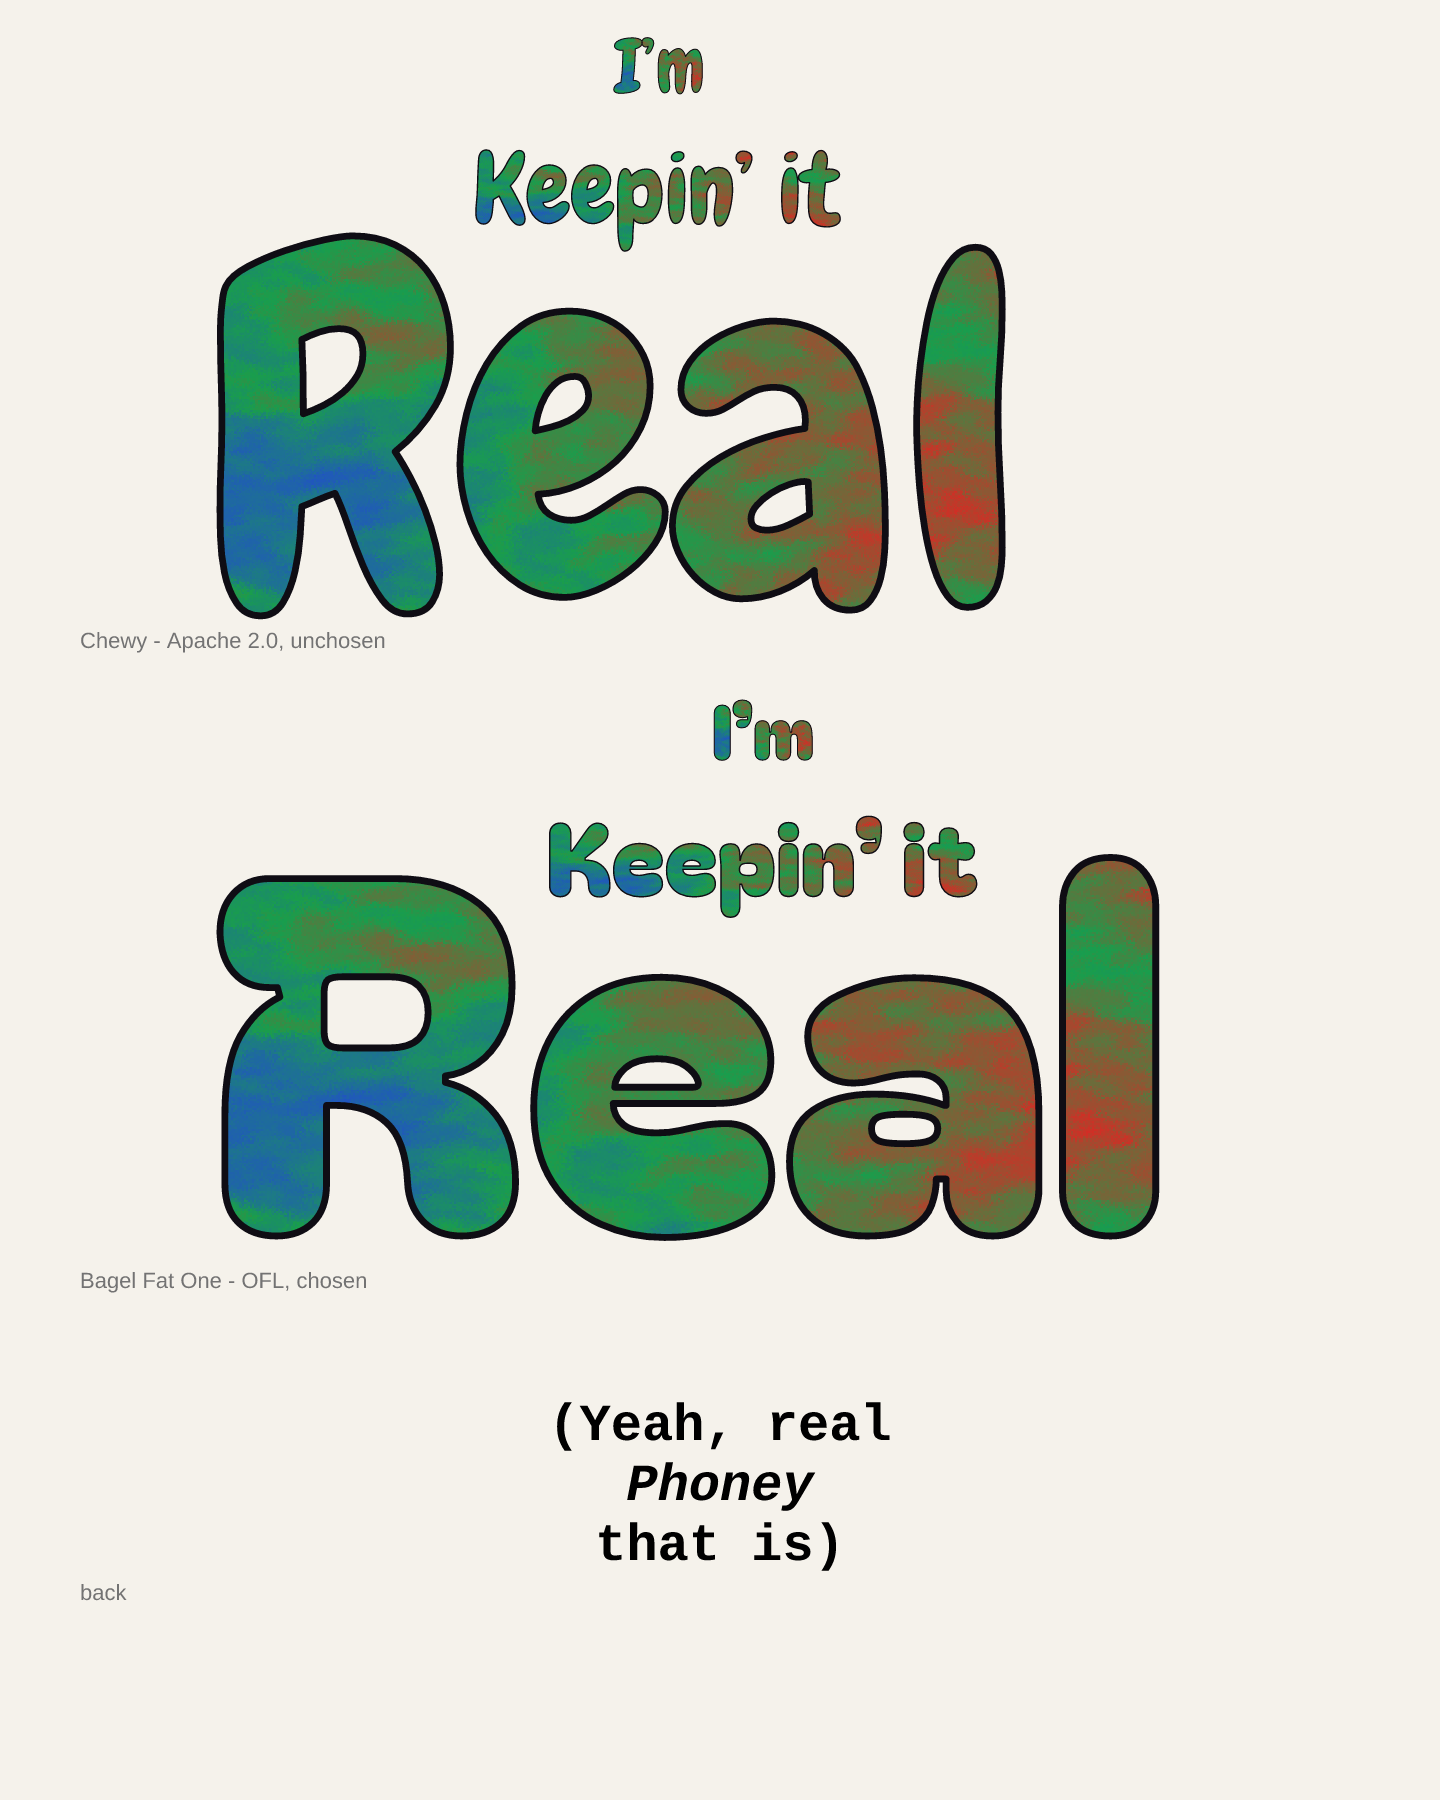
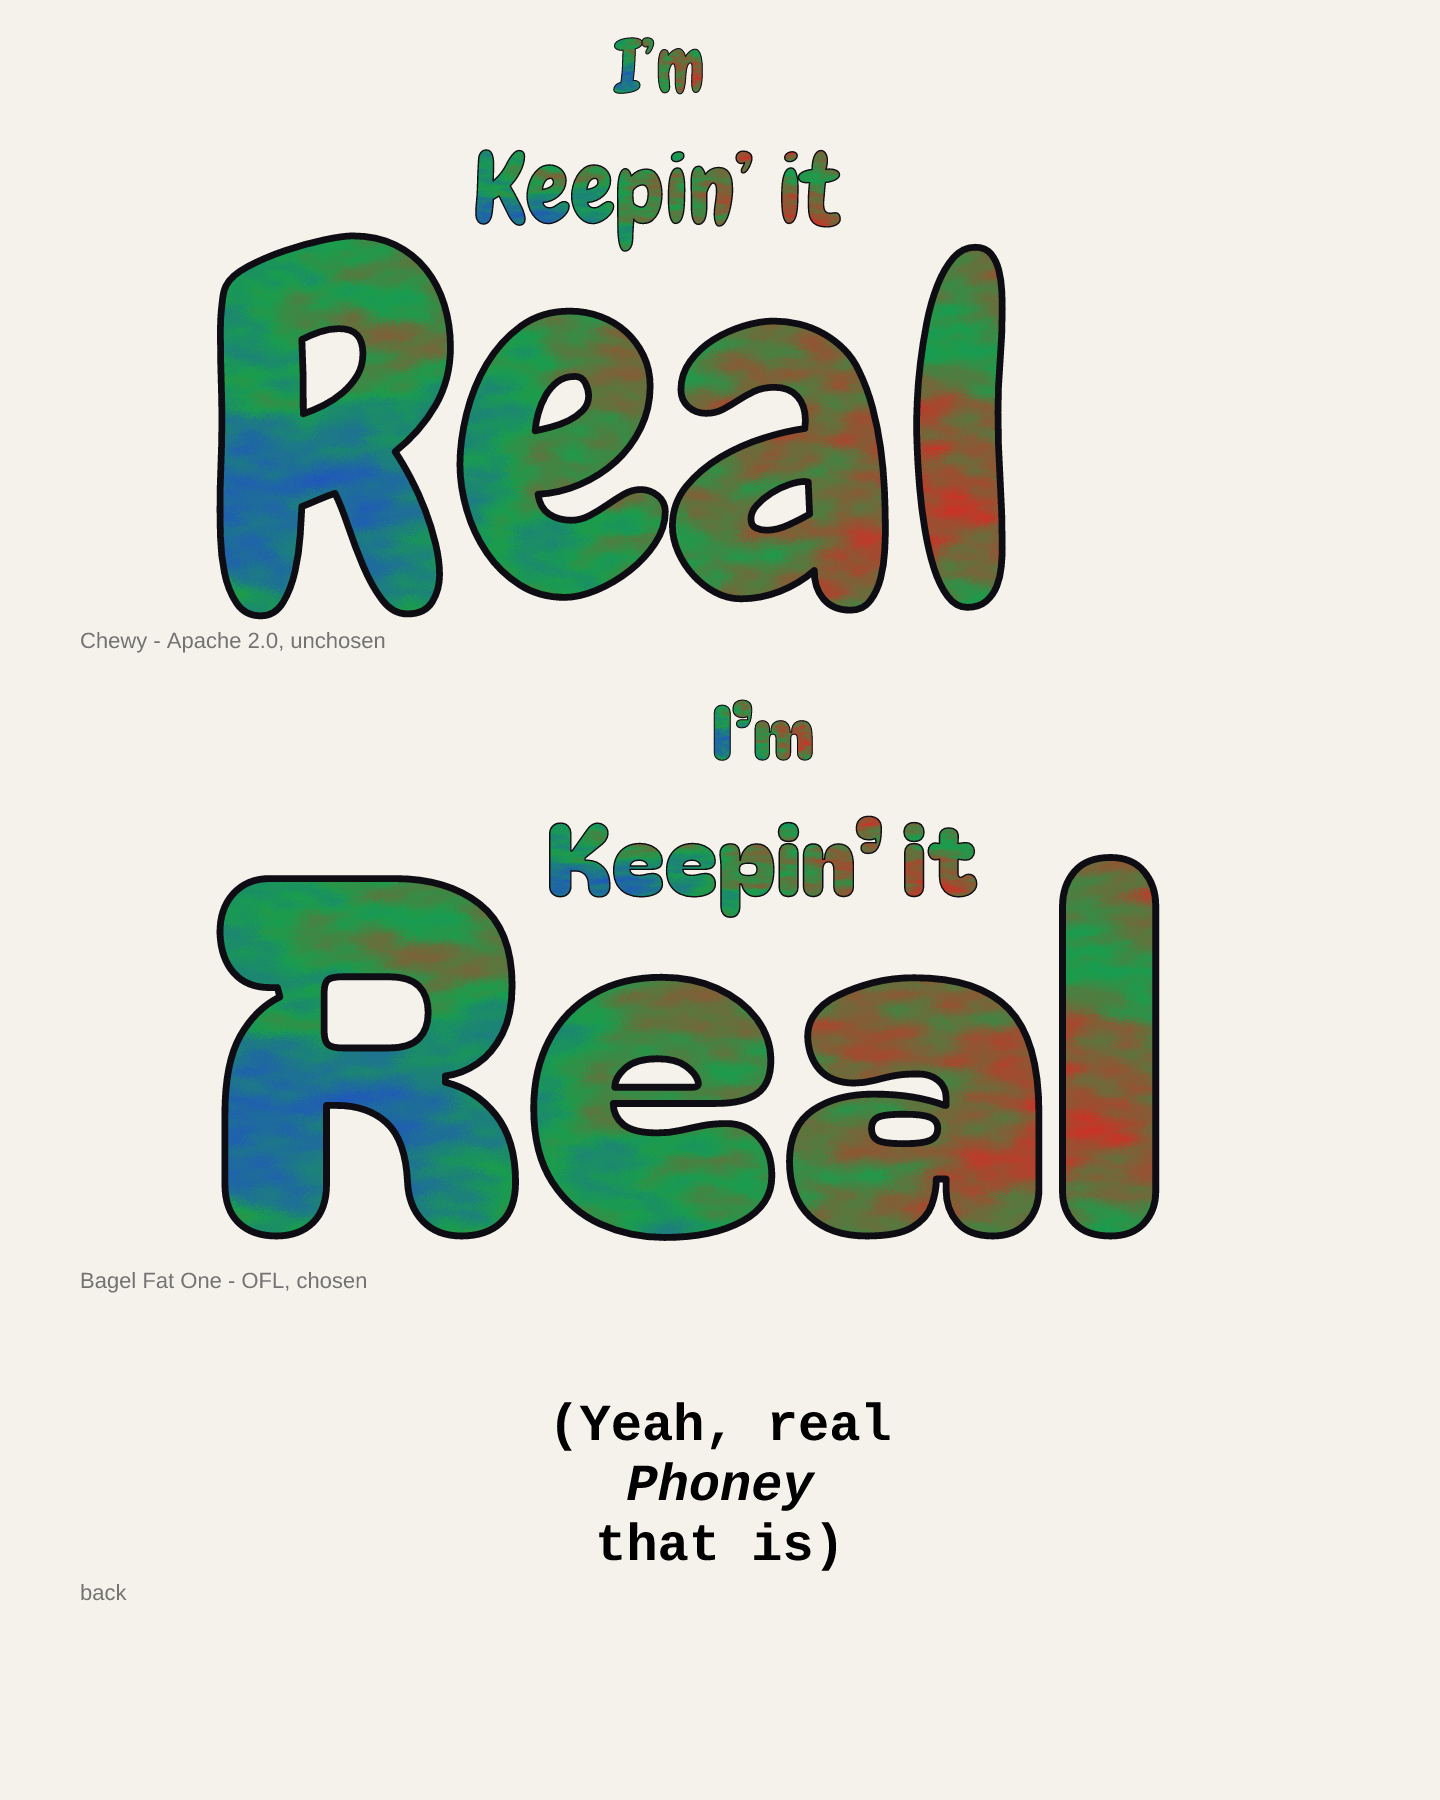
Refresh derived mocks and gallery still for the 4096 /device cap; accurate cost notes (#162)
Claude-Session: https://claude.ai/code/session_01SFgfFhMnwzjwoHiX1AAgsb

diff --git a/docs/keepin_it_real_shirt.md b/docs/keepin_it_real_shirt.md
@@ -41,7 +41,7 @@ Renders are deterministic (same seed → identical output).
 - **Plasma fill resolution**: `psyletter` samples the fill at `/Resolution /device`,
   one sample per device pixel (capped at 4096, enough for the 3600 px front), so the
   300 dpi fill has no upscaling blocks (issue #162; the old 512 cap gave ~49 PPI across
-  `Real`). Cost: the front export takes ~40 s and the front PNG is ~4 MB.
+  `Real`). Cost: the full export went from ~5 s to ~43 s and the front PNG from 0.56 MB to 3.9 MB.
 - Front: GIMP-style plasma (`/Treatment /plasma`, `lib/fillkit.ps`, red/green/blue palette,
   `/Turbulence 2 /Spread 0.01`, thin dark outline) on all three runs. Back: solid black, no outline, no wear (plasma has none: `/Wear` only applies to `/mottled`).
 
